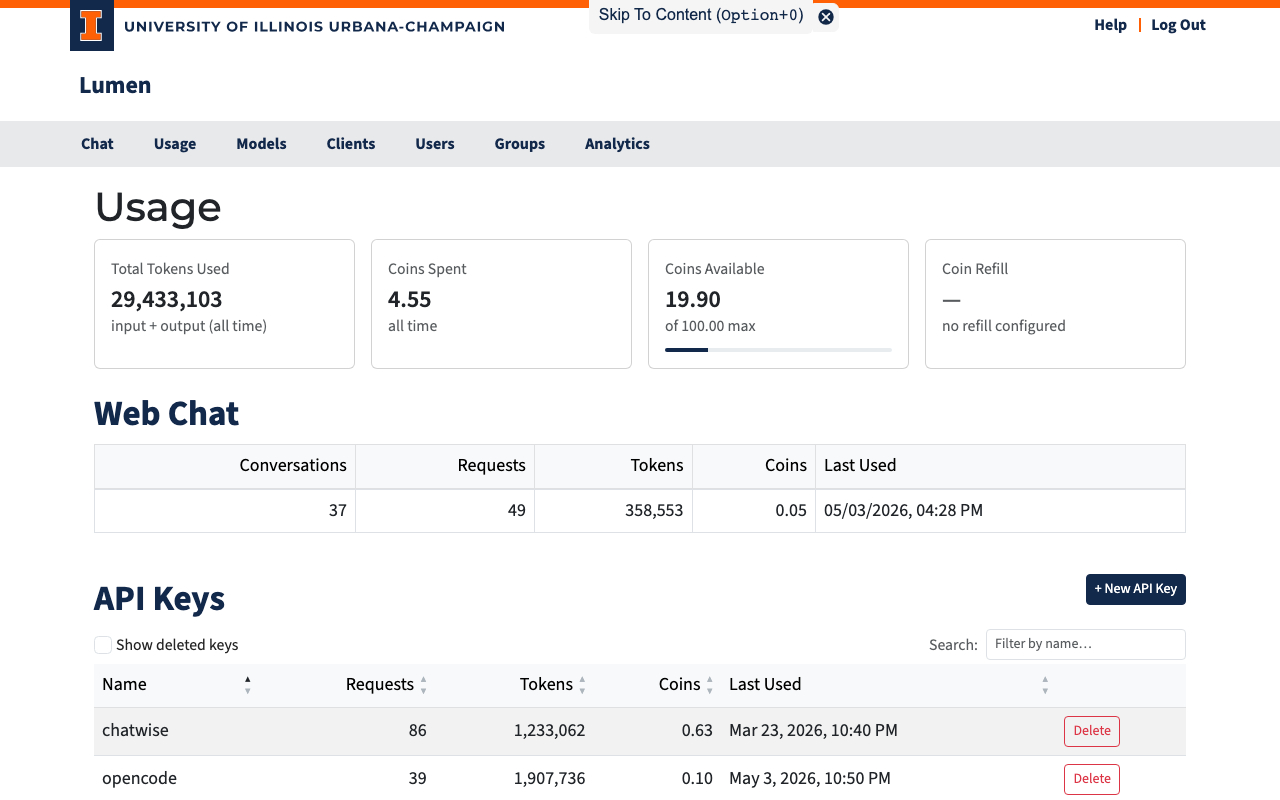
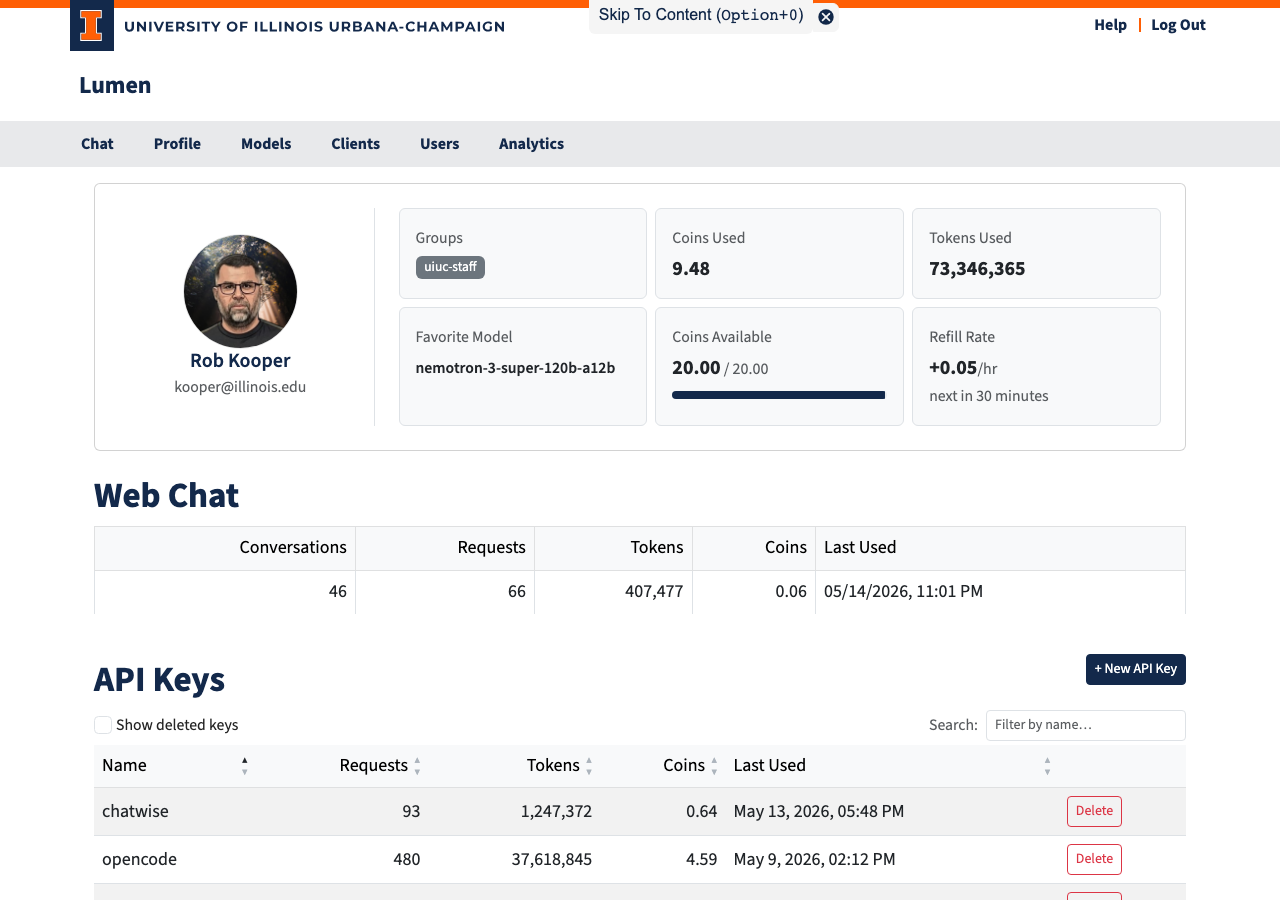
Update profile docs and screenshot for new profile card design
- Rewrite Status Cards section to describe the new 6-tile profile card
  (groups, coins used, tokens used, favorite model, coins available, refill rate)
- Recapture profile.png showing gravatar, stats grid, and page layout
- Remove stale usage.png

diff --git a/docs/guides/profile.md b/docs/guides/profile.md
@@ -4,16 +4,22 @@ The **Profile** page (`/profile`) shows your coin balance, spending history, mod
 
 ![Profile page](../img/profile.png)
 
-## Status Cards
+## Profile Card
 
-At the top of the page, four cards summarize your account:
+At the top of the page, a card shows your identity and a summary of your account activity.
 
-| Card | Description |
+The left side displays your avatar (pulled from [Gravatar](https://gravatar.com) based on your email), your display name, and email address.
+
+The right side shows six stat tiles:
+
+| Tile | Description |
 |------|------------|
-| **Total Tokens Used** | All input + output tokens across all models, all time |
-| **Coins Spent** | Total coins spent across all models, all time |
+| **Groups** | The groups you belong to |
+| **Coins Used** | Total coins spent across all models, all time |
+| **Tokens Used** | All input + output tokens across all models, all time |
+| **Favorite Model** | The model you have used most |
 | **Coins Available** | Your current pool balance with a progress bar (when a limit is set) |
-| **Coin Refill** | Auto-refill rate per hour and a countdown to the next refill |
+| **Refill Rate** | Auto-refill rate per hour and a countdown to the next refill |
 
 ### Coin Pool Values
 
@@ -21,7 +27,7 @@ At the top of the page, four cards summarize your account:
 |-------|---------|
 | A positive number | Coins remaining in your budget |
 | **Unlimited** | No cap — you can always send requests |
-| **Not configured** | No budget has been set up for your account |
+| **—** | No budget has been set up for your account |
 | 0 or negative | Budget exhausted; further requests are blocked until a refill or an admin grants more coins |
 
 ## Web Chat Usage
